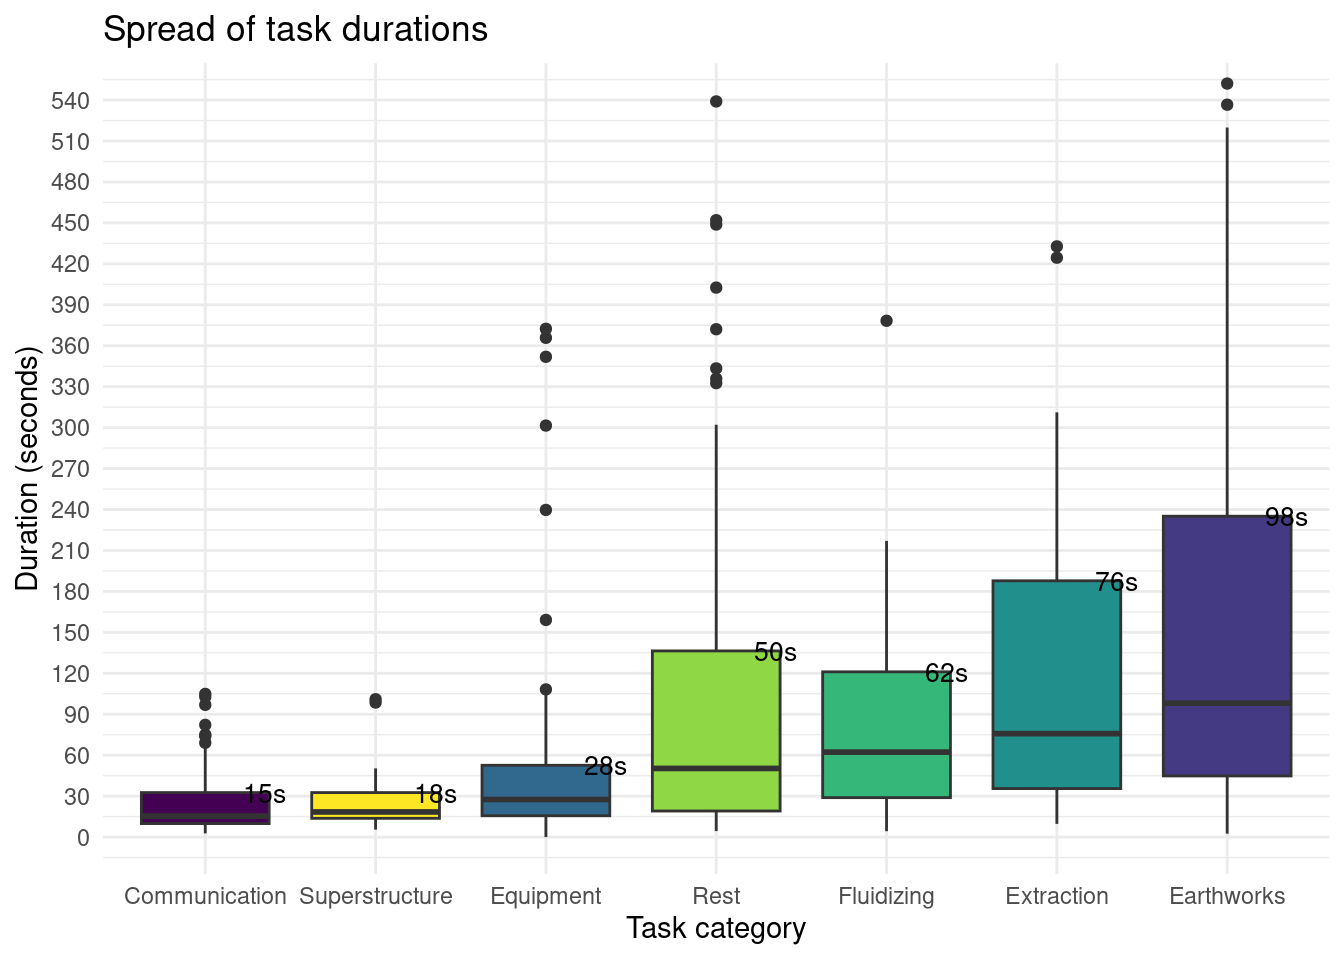
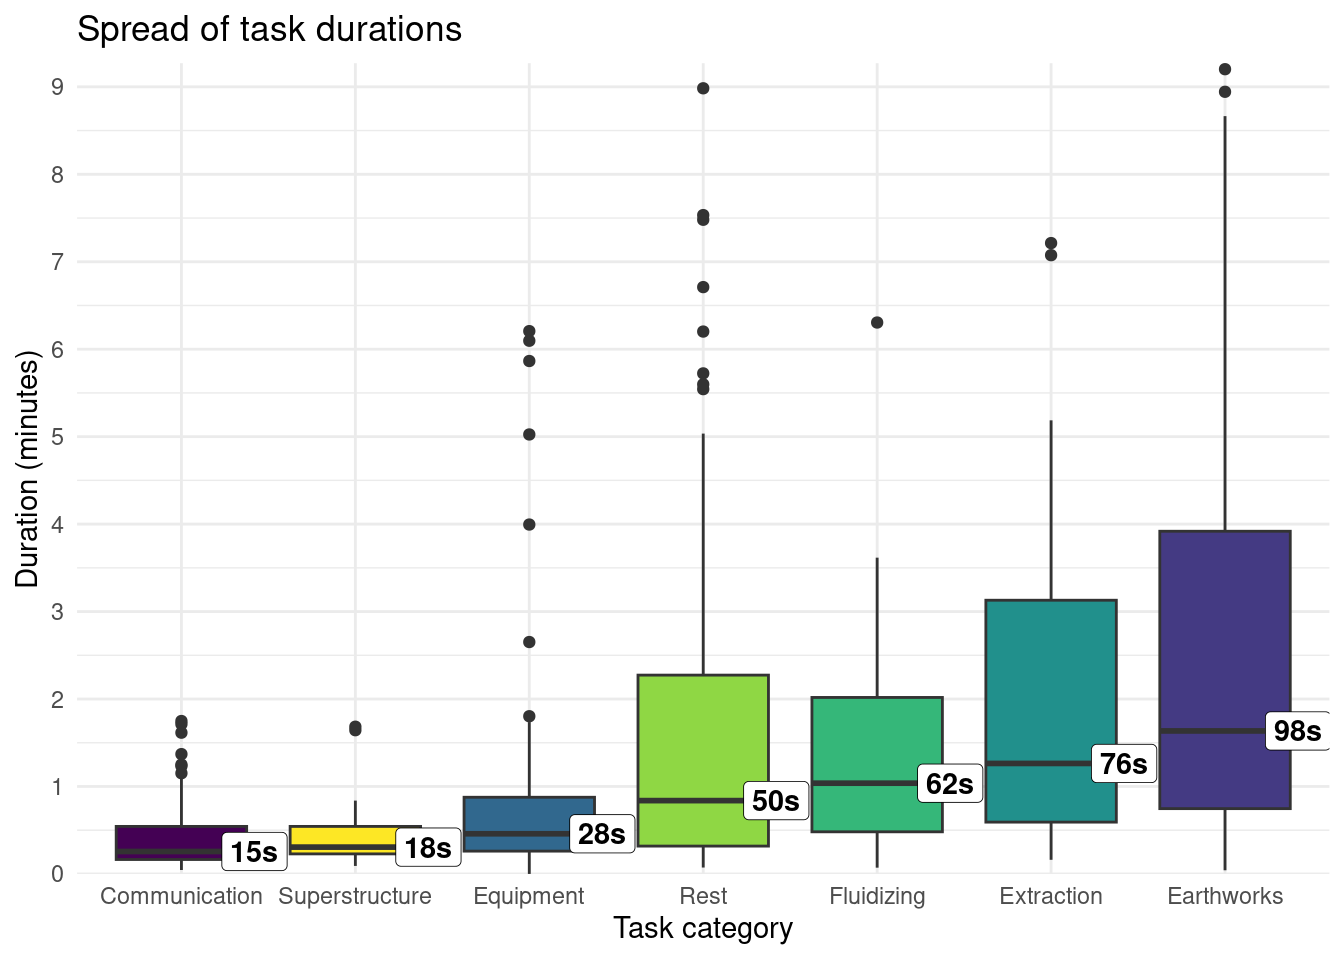
I changed the labels for Figure 3 to make them more readable.

diff --git a/docs/index.html b/docs/index.html
@@ -332,43 +332,47 @@ Figure&nbsp;2: Percentage of each job’s total observed time spent on each task
 <div class="cell">
 <div class="code-copy-outer-scaffold"><div class="sourceCode cell-code" id="cb7"><pre class="sourceCode r code-with-copy"><code class="sourceCode r"><span id="cb7-1"><a href="#cb7-1" aria-hidden="true" tabindex="-1"></a>task_medians <span class="ot">&lt;-</span> gulper_data <span class="sc">%&gt;%</span></span>
 <span id="cb7-2"><a href="#cb7-2" aria-hidden="true" tabindex="-1"></a>  <span class="fu">group_by</span>(task) <span class="sc">%&gt;%</span></span>
-<span id="cb7-3"><a href="#cb7-3" aria-hidden="true" tabindex="-1"></a>  <span class="fu">summarise</span>(</span>
-<span id="cb7-4"><a href="#cb7-4" aria-hidden="true" tabindex="-1"></a>    <span class="at">median_sec =</span> <span class="fu">median</span>(duration_seconds),</span>
-<span id="cb7-5"><a href="#cb7-5" aria-hidden="true" tabindex="-1"></a>    <span class="at">q3_sec =</span> <span class="fu">quantile</span>(duration_seconds, <span class="fl">0.75</span>)</span>
-<span id="cb7-6"><a href="#cb7-6" aria-hidden="true" tabindex="-1"></a>  )</span>
-<span id="cb7-7"><a href="#cb7-7" aria-hidden="true" tabindex="-1"></a></span>
-<span id="cb7-8"><a href="#cb7-8" aria-hidden="true" tabindex="-1"></a><span class="co"># cap the y-axis just above the widest whisker across tasks, rounded up to</span></span>
-<span id="cb7-9"><a href="#cb7-9" aria-hidden="true" tabindex="-1"></a><span class="co"># the nearest 30 seconds, so a handful of extreme outliers don't compress</span></span>
-<span id="cb7-10"><a href="#cb7-10" aria-hidden="true" tabindex="-1"></a><span class="co"># the readable range for every other task</span></span>
-<span id="cb7-11"><a href="#cb7-11" aria-hidden="true" tabindex="-1"></a>task_fences <span class="ot">&lt;-</span> gulper_data <span class="sc">%&gt;%</span></span>
-<span id="cb7-12"><a href="#cb7-12" aria-hidden="true" tabindex="-1"></a>  <span class="fu">group_by</span>(task) <span class="sc">%&gt;%</span></span>
-<span id="cb7-13"><a href="#cb7-13" aria-hidden="true" tabindex="-1"></a>  <span class="fu">summarise</span>(</span>
-<span id="cb7-14"><a href="#cb7-14" aria-hidden="true" tabindex="-1"></a>    <span class="at">q1 =</span> <span class="fu">quantile</span>(duration_seconds, <span class="fl">0.25</span>),</span>
-<span id="cb7-15"><a href="#cb7-15" aria-hidden="true" tabindex="-1"></a>    <span class="at">q3 =</span> <span class="fu">quantile</span>(duration_seconds, <span class="fl">0.75</span>),</span>
-<span id="cb7-16"><a href="#cb7-16" aria-hidden="true" tabindex="-1"></a>    <span class="at">fence =</span> q3 <span class="sc">+</span> <span class="fl">1.5</span> <span class="sc">*</span> (q3 <span class="sc">-</span> q1),</span>
-<span id="cb7-17"><a href="#cb7-17" aria-hidden="true" tabindex="-1"></a>    <span class="at">upper_whisker =</span> <span class="fu">max</span>(duration_seconds[duration_seconds <span class="sc">&lt;=</span> fence])</span>
-<span id="cb7-18"><a href="#cb7-18" aria-hidden="true" tabindex="-1"></a>  )</span>
-<span id="cb7-19"><a href="#cb7-19" aria-hidden="true" tabindex="-1"></a></span>
-<span id="cb7-20"><a href="#cb7-20" aria-hidden="true" tabindex="-1"></a>axis_upper_seconds <span class="ot">&lt;-</span> <span class="fu">ceiling</span>(<span class="fu">max</span>(task_fences<span class="sc">$</span>upper_whisker) <span class="sc">/</span> <span class="dv">30</span>) <span class="sc">*</span> <span class="dv">30</span></span>
-<span id="cb7-21"><a href="#cb7-21" aria-hidden="true" tabindex="-1"></a></span>
-<span id="cb7-22"><a href="#cb7-22" aria-hidden="true" tabindex="-1"></a><span class="fu">ggplot</span>(gulper_data, <span class="fu">aes</span>(<span class="at">x =</span> <span class="fu">fct_reorder</span>(task, duration_seconds, <span class="at">.fun =</span> median), <span class="at">y =</span> duration_seconds, <span class="at">fill =</span> task)) <span class="sc">+</span></span>
-<span id="cb7-23"><a href="#cb7-23" aria-hidden="true" tabindex="-1"></a>  <span class="fu">geom_boxplot</span>(<span class="at">show.legend =</span> <span class="cn">FALSE</span>) <span class="sc">+</span></span>
-<span id="cb7-24"><a href="#cb7-24" aria-hidden="true" tabindex="-1"></a>  <span class="fu">geom_text</span>(</span>
-<span id="cb7-25"><a href="#cb7-25" aria-hidden="true" tabindex="-1"></a>    <span class="at">data =</span> task_medians,</span>
-<span id="cb7-26"><a href="#cb7-26" aria-hidden="true" tabindex="-1"></a>    <span class="fu">aes</span>(<span class="at">x =</span> <span class="fu">fct_reorder</span>(task, median_sec), <span class="at">y =</span> q3_sec, <span class="at">label =</span> <span class="fu">paste0</span>(<span class="fu">round</span>(median_sec), <span class="st">"s"</span>)),</span>
-<span id="cb7-27"><a href="#cb7-27" aria-hidden="true" tabindex="-1"></a>    <span class="at">inherit.aes =</span> <span class="cn">FALSE</span>,</span>
-<span id="cb7-28"><a href="#cb7-28" aria-hidden="true" tabindex="-1"></a>    <span class="at">nudge_x =</span> <span class="fl">0.35</span>,</span>
-<span id="cb7-29"><a href="#cb7-29" aria-hidden="true" tabindex="-1"></a>    <span class="at">size =</span> <span class="fl">3.5</span></span>
+<span id="cb7-3"><a href="#cb7-3" aria-hidden="true" tabindex="-1"></a>  <span class="fu">summarise</span>(<span class="at">median_sec =</span> <span class="fu">median</span>(duration_seconds))</span>
+<span id="cb7-4"><a href="#cb7-4" aria-hidden="true" tabindex="-1"></a></span>
+<span id="cb7-5"><a href="#cb7-5" aria-hidden="true" tabindex="-1"></a><span class="co"># cap the y-axis just above the widest whisker across tasks, rounded up to</span></span>
+<span id="cb7-6"><a href="#cb7-6" aria-hidden="true" tabindex="-1"></a><span class="co"># the nearest whole minute, so a handful of extreme outliers don't compress</span></span>
+<span id="cb7-7"><a href="#cb7-7" aria-hidden="true" tabindex="-1"></a><span class="co"># the readable range for every other task</span></span>
+<span id="cb7-8"><a href="#cb7-8" aria-hidden="true" tabindex="-1"></a>task_fences <span class="ot">&lt;-</span> gulper_data <span class="sc">%&gt;%</span></span>
+<span id="cb7-9"><a href="#cb7-9" aria-hidden="true" tabindex="-1"></a>  <span class="fu">group_by</span>(task) <span class="sc">%&gt;%</span></span>
+<span id="cb7-10"><a href="#cb7-10" aria-hidden="true" tabindex="-1"></a>  <span class="fu">summarise</span>(</span>
+<span id="cb7-11"><a href="#cb7-11" aria-hidden="true" tabindex="-1"></a>    <span class="at">q1 =</span> <span class="fu">quantile</span>(duration_seconds, <span class="fl">0.25</span>),</span>
+<span id="cb7-12"><a href="#cb7-12" aria-hidden="true" tabindex="-1"></a>    <span class="at">q3 =</span> <span class="fu">quantile</span>(duration_seconds, <span class="fl">0.75</span>),</span>
+<span id="cb7-13"><a href="#cb7-13" aria-hidden="true" tabindex="-1"></a>    <span class="at">fence =</span> q3 <span class="sc">+</span> <span class="fl">1.5</span> <span class="sc">*</span> (q3 <span class="sc">-</span> q1),</span>
+<span id="cb7-14"><a href="#cb7-14" aria-hidden="true" tabindex="-1"></a>    <span class="at">upper_whisker =</span> <span class="fu">max</span>(duration_seconds[duration_seconds <span class="sc">&lt;=</span> fence])</span>
+<span id="cb7-15"><a href="#cb7-15" aria-hidden="true" tabindex="-1"></a>  )</span>
+<span id="cb7-16"><a href="#cb7-16" aria-hidden="true" tabindex="-1"></a></span>
+<span id="cb7-17"><a href="#cb7-17" aria-hidden="true" tabindex="-1"></a>axis_upper_seconds <span class="ot">&lt;-</span> <span class="fu">ceiling</span>(<span class="fu">max</span>(task_fences<span class="sc">$</span>upper_whisker) <span class="sc">/</span> <span class="dv">60</span>) <span class="sc">*</span> <span class="dv">60</span></span>
+<span id="cb7-18"><a href="#cb7-18" aria-hidden="true" tabindex="-1"></a></span>
+<span id="cb7-19"><a href="#cb7-19" aria-hidden="true" tabindex="-1"></a><span class="fu">ggplot</span>(gulper_data, <span class="fu">aes</span>(<span class="at">x =</span> <span class="fu">fct_reorder</span>(task, duration_seconds, <span class="at">.fun =</span> median), <span class="at">y =</span> duration_seconds, <span class="at">fill =</span> task)) <span class="sc">+</span></span>
+<span id="cb7-20"><a href="#cb7-20" aria-hidden="true" tabindex="-1"></a>  <span class="fu">geom_boxplot</span>(<span class="at">show.legend =</span> <span class="cn">FALSE</span>) <span class="sc">+</span></span>
+<span id="cb7-21"><a href="#cb7-21" aria-hidden="true" tabindex="-1"></a>  <span class="fu">geom_label</span>(</span>
+<span id="cb7-22"><a href="#cb7-22" aria-hidden="true" tabindex="-1"></a>    <span class="at">data =</span> task_medians,</span>
+<span id="cb7-23"><a href="#cb7-23" aria-hidden="true" tabindex="-1"></a>    <span class="fu">aes</span>(<span class="at">x =</span> <span class="fu">fct_reorder</span>(task, median_sec), <span class="at">y =</span> median_sec, <span class="at">label =</span> <span class="fu">paste0</span>(<span class="fu">round</span>(median_sec), <span class="st">"s"</span>)),</span>
+<span id="cb7-24"><a href="#cb7-24" aria-hidden="true" tabindex="-1"></a>    <span class="at">inherit.aes =</span> <span class="cn">FALSE</span>,</span>
+<span id="cb7-25"><a href="#cb7-25" aria-hidden="true" tabindex="-1"></a>    <span class="at">nudge_x =</span> <span class="fl">0.42</span>,</span>
+<span id="cb7-26"><a href="#cb7-26" aria-hidden="true" tabindex="-1"></a>    <span class="at">size =</span> <span class="fl">3.8</span>,</span>
+<span id="cb7-27"><a href="#cb7-27" aria-hidden="true" tabindex="-1"></a>    <span class="at">fontface =</span> <span class="st">"bold"</span>,</span>
+<span id="cb7-28"><a href="#cb7-28" aria-hidden="true" tabindex="-1"></a>    <span class="at">label.size =</span> <span class="fl">0.15</span>,</span>
+<span id="cb7-29"><a href="#cb7-29" aria-hidden="true" tabindex="-1"></a>    <span class="at">fill =</span> <span class="st">"white"</span></span>
 <span id="cb7-30"><a href="#cb7-30" aria-hidden="true" tabindex="-1"></a>  ) <span class="sc">+</span></span>
 <span id="cb7-31"><a href="#cb7-31" aria-hidden="true" tabindex="-1"></a>  <span class="fu">coord_cartesian</span>(<span class="at">ylim =</span> <span class="fu">c</span>(<span class="dv">0</span>, axis_upper_seconds)) <span class="sc">+</span></span>
 <span id="cb7-32"><a href="#cb7-32" aria-hidden="true" tabindex="-1"></a>  <span class="fu">scale_fill_viridis_d</span>() <span class="sc">+</span></span>
-<span id="cb7-33"><a href="#cb7-33" aria-hidden="true" tabindex="-1"></a>  <span class="fu">scale_y_continuous</span>(<span class="at">breaks =</span> <span class="fu">seq</span>(<span class="dv">0</span>, axis_upper_seconds, <span class="at">by =</span> <span class="dv">30</span>)) <span class="sc">+</span></span>
-<span id="cb7-34"><a href="#cb7-34" aria-hidden="true" tabindex="-1"></a>  <span class="fu">labs</span>(</span>
-<span id="cb7-35"><a href="#cb7-35" aria-hidden="true" tabindex="-1"></a>    <span class="at">x =</span> <span class="st">"Task category"</span>,</span>
-<span id="cb7-36"><a href="#cb7-36" aria-hidden="true" tabindex="-1"></a>    <span class="at">y =</span> <span class="st">"Duration (seconds)"</span>,</span>
-<span id="cb7-37"><a href="#cb7-37" aria-hidden="true" tabindex="-1"></a>    <span class="at">title =</span> <span class="st">"Spread of task durations"</span></span>
-<span id="cb7-38"><a href="#cb7-38" aria-hidden="true" tabindex="-1"></a>  ) <span class="sc">+</span></span>
-<span id="cb7-39"><a href="#cb7-39" aria-hidden="true" tabindex="-1"></a>  <span class="fu">theme_minimal</span>()</span></code></pre></div><button title="Copy to Clipboard" class="code-copy-button"><i class="bi"></i></button></div>
+<span id="cb7-33"><a href="#cb7-33" aria-hidden="true" tabindex="-1"></a>  <span class="fu">scale_y_continuous</span>(</span>
+<span id="cb7-34"><a href="#cb7-34" aria-hidden="true" tabindex="-1"></a>    <span class="at">breaks =</span> <span class="fu">seq</span>(<span class="dv">0</span>, axis_upper_seconds, <span class="at">by =</span> <span class="dv">60</span>),</span>
+<span id="cb7-35"><a href="#cb7-35" aria-hidden="true" tabindex="-1"></a>    <span class="at">labels =</span> <span class="cf">function</span>(x) x <span class="sc">/</span> <span class="dv">60</span>,</span>
+<span id="cb7-36"><a href="#cb7-36" aria-hidden="true" tabindex="-1"></a>    <span class="at">expand =</span> <span class="fu">expansion</span>(<span class="at">mult =</span> <span class="fu">c</span>(<span class="dv">0</span>, <span class="fl">0.03</span>))</span>
+<span id="cb7-37"><a href="#cb7-37" aria-hidden="true" tabindex="-1"></a>  ) <span class="sc">+</span></span>
+<span id="cb7-38"><a href="#cb7-38" aria-hidden="true" tabindex="-1"></a>  <span class="fu">labs</span>(</span>
+<span id="cb7-39"><a href="#cb7-39" aria-hidden="true" tabindex="-1"></a>    <span class="at">x =</span> <span class="st">"Task category"</span>,</span>
+<span id="cb7-40"><a href="#cb7-40" aria-hidden="true" tabindex="-1"></a>    <span class="at">y =</span> <span class="st">"Duration (minutes)"</span>,</span>
+<span id="cb7-41"><a href="#cb7-41" aria-hidden="true" tabindex="-1"></a>    <span class="at">title =</span> <span class="st">"Spread of task durations"</span></span>
+<span id="cb7-42"><a href="#cb7-42" aria-hidden="true" tabindex="-1"></a>  ) <span class="sc">+</span></span>
+<span id="cb7-43"><a href="#cb7-43" aria-hidden="true" tabindex="-1"></a>  <span class="fu">theme_minimal</span>()</span></code></pre></div><button title="Copy to Clipboard" class="code-copy-button"><i class="bi"></i></button></div>
 <div class="cell-output-display">
 <div id="fig-duration-boxplot" class="quarto-float quarto-figure quarto-figure-center anchored">
 <figure class="quarto-float quarto-float-fig figure">
@@ -376,7 +380,7 @@ Figure&nbsp;2: Percentage of each job’s total observed time spent on each task
 <img src="index_files/figure-html/fig-duration-boxplot-1.png" class="img-fluid figure-img" width="672">
 </div>
 <figcaption class="quarto-float-caption-bottom quarto-float-caption quarto-float-fig" id="fig-duration-boxplot-caption-0ceaefa1-69ba-4598-a22c-09a6ac19f8ca">
-Figure&nbsp;3: Distribution of task durations by task category, shown as a traditional boxplot (box = interquartile range, thick line = median, whiskers extend to 1.5x the interquartile range). Labels give the exact median duration in seconds. A small number of extreme outliers (12 of 453 observations, mostly Earthworks) fall above the axis limit and are not shown, to keep the typical range readable; the full range is reported in <a href="#tbl-task-summary" class="quarto-xref">Table&nbsp;1</a>.
+Figure&nbsp;3: Distribution of task durations by task category, shown as a traditional boxplot (box = interquartile range, thick line = median, whiskers extend to 1.5x the interquartile range). The y-axis is in minutes for readability; labels on each box give the exact median duration in seconds. A small number of extreme outliers (12 of 453 observations, mostly Earthworks) fall above the axis limit and are not shown, to keep the typical range readable; the full range is reported in <a href="#tbl-task-summary" class="quarto-xref">Table&nbsp;1</a>.
 </figcaption>
 </figure>
 </div>